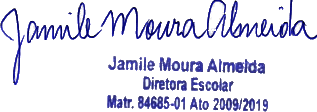
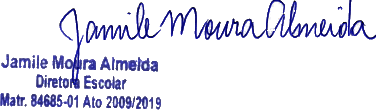
mover a posicao da assinatura.png 2cm para esquerda

diff --git a/src/components/transcript-pdf-template.tsx b/src/components/transcript-pdf-template.tsx
@@ -20,17 +20,17 @@ const DetailItem = ({ label, value }: { label: string, value: React.ReactNode })
 const normalizeString = (str: string): string => {
     if (typeof str !== 'string') return '';
     return str.trim().toLowerCase()
-        .replace(/[ç]/g, 'c')
-        .replace(/[áàâã]/g, 'a')
-        .replace(/[éèê]/g, 'e')
-        .replace(/[íìî]/g, 'i')
-        .replace(/[óòôõ]/g, 'o')
-        .replace(/[úùû]/g, 'u')
-        .replace(/º/g, '')
-        .replace(/\./g, '')
-        .replace(/\//g, '-')
-        .replace(/[\[\]*~]/g, '')
-        .replace(/\s+/g, '_');
+      .replace(/[ç]/g, 'c')
+      .replace(/[áàâã]/g, 'a')
+      .replace(/[éèê]/g, 'e')
+      .replace(/[íìî]/g, 'i')
+      .replace(/[óòôõ]/g, 'o')
+      .replace(/[úùû]/g, 'u')
+      .replace(/º/g, '')
+      .replace(/\./g, '')
+      .replace(/\//g, '-') 
+      .replace(/[\[\]*~]/g, '') 
+      .replace(/\s+/g, '_');
 };
 
 const GradeMatrix = ({ boletim }: { boletim: any }) => {
@@ -229,7 +229,7 @@ export default function TranscriptPDFTemplate({ student }: TranscriptPDFTemplate
                     
                     <div className="flex justify-around w-full mt-8">
                         <div className="text-center w-48 relative">
-                             <div className="relative h-16 w-full -mb-10">
+                             <div className="relative h-16 w-full -mb-10" style={{ right: '2cm' }}>
                                 <Image src="/assinatura.png" alt="Assinatura Gestão Escolar" layout="fill" objectFit="contain" unoptimized />
                             </div>
                             <div className="border-t border-black w-full pt-1">
@@ -240,7 +240,7 @@ export default function TranscriptPDFTemplate({ student }: TranscriptPDFTemplate
                         </div>
                         <div className="text-center w-48 relative">
                              <div className="relative h-16 w-full -mb-10">
-                                {/* Imagem da assinatura removida aqui */}
+                                {/* Signature removed from here */}
                             </div>
                              <div className="border-t border-black w-full pt-1">
                                 <p className="font-bold">SECRETÁRIO(A) ESCOLAR</p>
